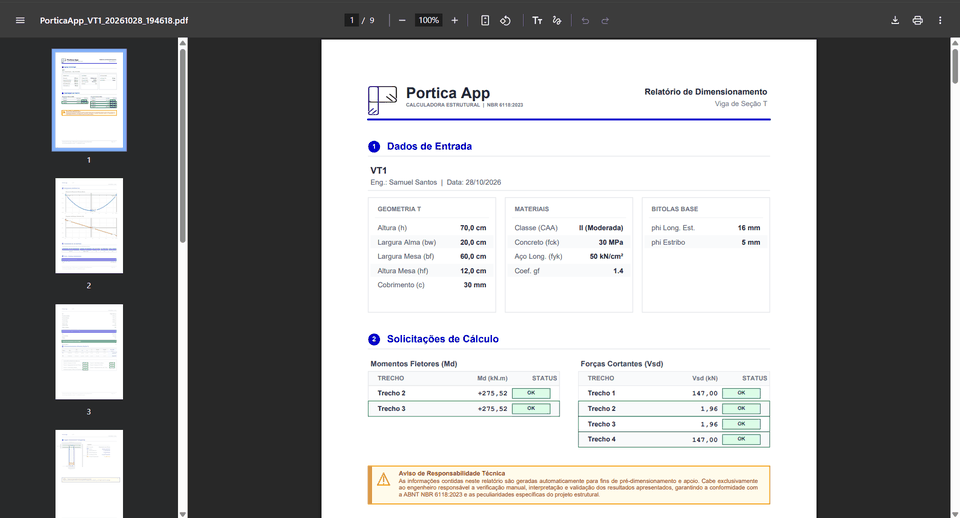
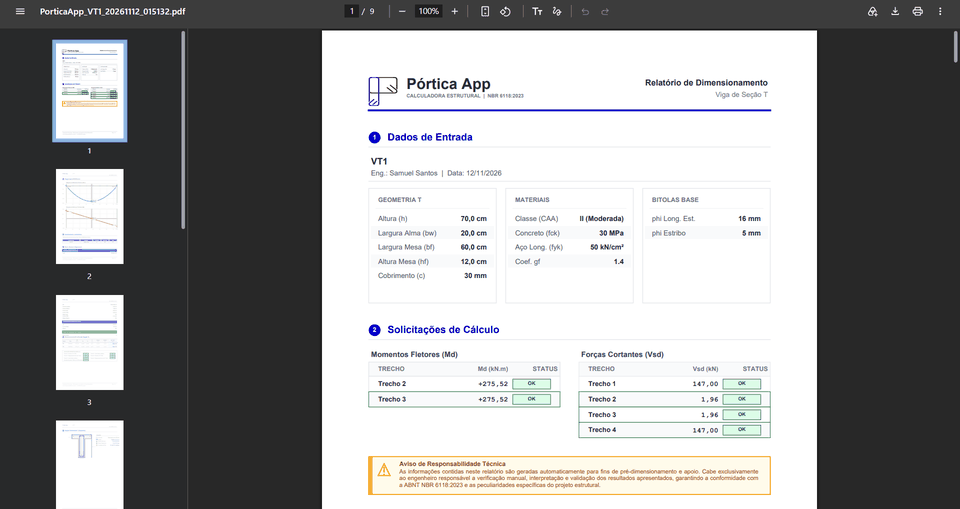
docs(site): recaptura do relatorio PDF sem a barra do navegador (EP-06.1)

diff --git a/site/index.html b/site/index.html
@@ -341,7 +341,7 @@
             <figcaption>Resultados da flexão.</figcaption>
           </figure>
           <figure class="fig">
-            <div class="fig-media"><img src="img/06-relatorio-pdf.png" alt="Relatório PDF gerado (capa, tabelas e esquema da seção)" loading="lazy" width="960" height="518"></div>
+            <div class="fig-media"><img src="img/06-relatorio-pdf.png" alt="Relatório PDF gerado (capa, tabelas e esquema da seção)" loading="lazy" width="960" height="509"></div>
             <figcaption>Relatório PDF.</figcaption>
           </figure>
           <figure class="fig">
